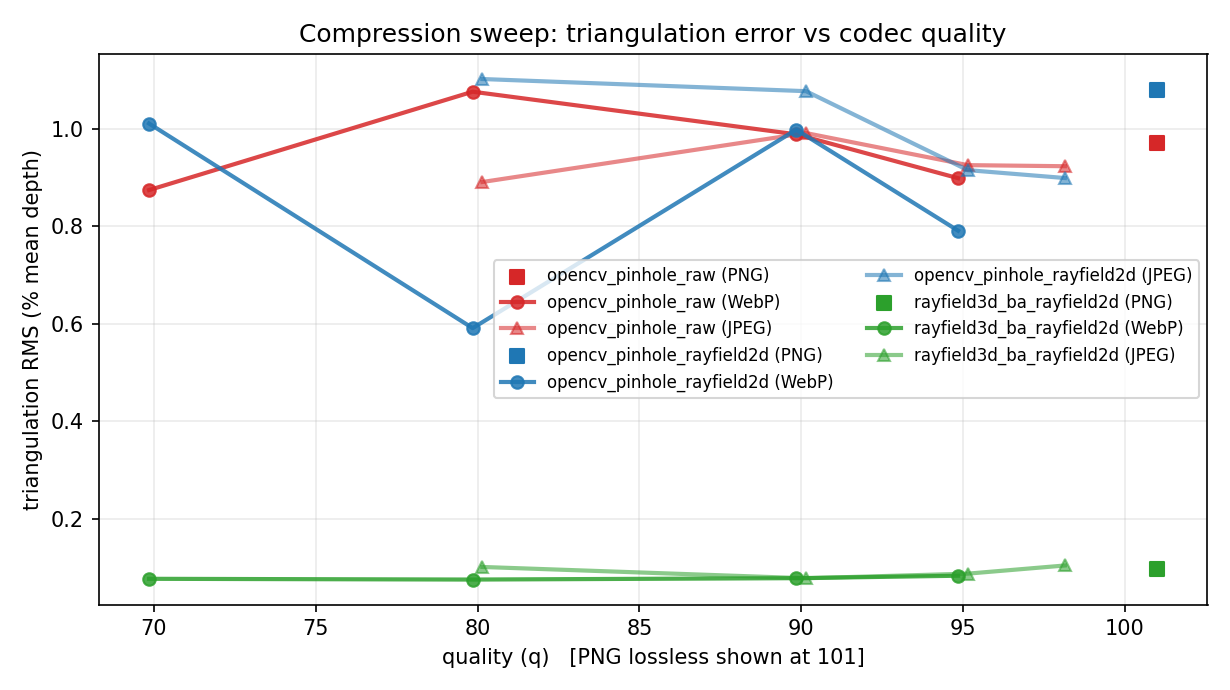
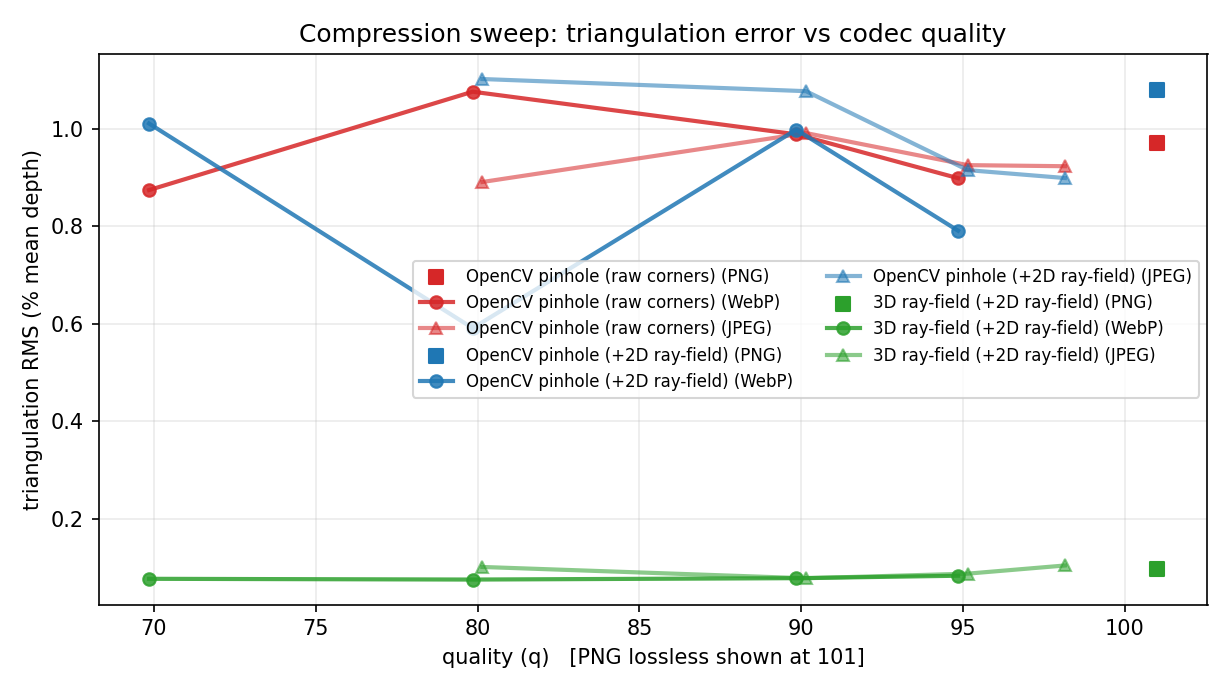
Docs: replace BA with bundle adjustment

Changed region(s): [[0.3398, 0.3652, 0.9577, 0.5783]]

diff --git a/paper/experiments/sweep_compression_3d_methods.py b/paper/experiments/sweep_compression_3d_methods.py
@@ -338,7 +338,16 @@ def main(argv: list[str] | None = None) -> int:
     x = [x_with_offset(n) for n in labels]
 
     methods = ["opencv_pinhole_raw", "opencv_pinhole_rayfield2d", "rayfield3d_ba_rayfield2d"]
-    colors = {"opencv_pinhole_raw": "tab:red", "opencv_pinhole_rayfield2d": "tab:blue", "rayfield3d_ba_rayfield2d": "tab:green"}
+    colors = {
+        "opencv_pinhole_raw": "tab:red",
+        "opencv_pinhole_rayfield2d": "tab:blue",
+        "rayfield3d_ba_rayfield2d": "tab:green",
+    }
+    labels_method = {
+        "opencv_pinhole_raw": "OpenCV pinhole (raw corners)",
+        "opencv_pinhole_rayfield2d": "OpenCV pinhole (+2D ray-field)",
+        "rayfield3d_ba_rayfield2d": "3D ray-field (+2D ray-field)",
+    }
 
     def series(metric: str, method: str) -> list[float]:
         out: list[float] = []
@@ -351,23 +360,24 @@ def main(argv: list[str] | None = None) -> int:
         plt.figure(figsize=(8.2, 4.6), dpi=150)
         # Plot each method as 2 codec lines (webp/jpeg) + a PNG reference point.
         for m in methods:
+            name = labels_method.get(m, m)
             # PNG reference.
             y_png = series(metric, m)[0]
-            plt.scatter([x[0]], [y_png], marker="s", s=42, color=colors[m], label=f"{m} (PNG)")
+            plt.scatter([x[0]], [y_png], marker="s", s=42, color=colors[m], label=f"{name} (PNG)")
 
             # WebP line (if present).
             if labels_webp:
                 xw = [x_with_offset(n) for n in labels_webp]
                 yw = [cases[n]["methods"][m].get(metric) for n in labels_webp]
                 yw = [float("nan") if v is None else float(v) for v in yw]
-                plt.plot(xw, yw, marker="o", linewidth=2.0, color=colors[m], alpha=0.85, label=f"{m} (WebP)")
+                plt.plot(xw, yw, marker="o", linewidth=2.0, color=colors[m], alpha=0.85, label=f"{name} (WebP)")
 
             # JPEG line (if present).
             if labels_jpeg:
                 xj = [x_with_offset(n) for n in labels_jpeg]
                 yj = [cases[n]["methods"][m].get(metric) for n in labels_jpeg]
                 yj = [float("nan") if v is None else float(v) for v in yj]
-                plt.plot(xj, yj, marker="^", linewidth=2.0, color=colors[m], alpha=0.55, label=f"{m} (JPEG)")
+                plt.plot(xj, yj, marker="^", linewidth=2.0, color=colors[m], alpha=0.55, label=f"{name} (JPEG)")
 
         plt.grid(True, alpha=0.25)
         plt.xlabel("quality (q)   [PNG lossless shown at 101]")

diff --git a/paper/experiments/sweep_robustness_board_focal_aberrations.py b/paper/experiments/sweep_robustness_board_focal_aberrations.py
@@ -159,11 +159,16 @@ def main(argv: list[str] | None = None) -> int:
     ap.add_argument(
         "--run-rayfield3d",
         action="store_true",
-        help="Also run ray-field 3D BA + post-hoc pinhole identification per case.",
+        help="Also run ray-field 3D bundle adjustment + post-hoc pinhole identification per case.",
     )
     ap.add_argument("--rayfield3d-outer-iters", type=int, default=6)
     ap.add_argument("--rayfield3d-nmax", type=int, default=12)
-    ap.add_argument("--rayfield3d-max-points", type=int, default=200, help="Max ChArUco corners per frame for ray-field 3D BA.")
+    ap.add_argument(
+        "--rayfield3d-max-points",
+        type=int,
+        default=200,
+        help="Max ChArUco corners per frame for ray-field 3D bundle adjustment.",
+    )
     args = ap.parse_args(argv)
 
     seeds = [int(s.strip()) for s in str(args.seeds).split(",") if s.strip()]

diff --git a/paper/experiments/calibrate_central_rayfield3d_from_images.py b/paper/experiments/calibrate_central_rayfield3d_from_images.py
@@ -663,7 +663,7 @@ def _init_coeffs_from_pose_guess(
 
 def main() -> int:
     ap = argparse.ArgumentParser(
-        description="Calibrate a central ray-field (Zernike) from images (multi-poses) using point-to-ray BA."
+        description="Calibrate a central ray-field (Zernike) from images (multi-poses) using point-to-ray bundle adjustment."
     )
     ap.add_argument("dataset_root", type=Path)
     ap.add_argument("--split", default="train")
@@ -883,7 +883,7 @@ def main() -> int:
         image_size=image_size,
     )
 
-    # Joint stereo BA (shared rig, board poses in left camera coordinates).
+    # Joint stereo bundle adjustment (shared rig, board poses in left camera coordinates).
     stereo_frames = {
         fid: StereoFrameObservations(
             uv_left_px=obs_L[fid].uv_px,

diff --git a/docs/RAYFIELD3D_RECONSTRUCTION.md b/docs/RAYFIELD3D_RECONSTRUCTION.md
@@ -216,7 +216,7 @@ This comparison runs three pipelines:
 
 1. OpenCV pinhole calibration from **raw** ChArUco corners,
 2. OpenCV pinhole calibration from **2D ray-field refined** corners,
-3. central **3D ray-field (BA)** calibrated from **2D ray-field refined** corners.
+3. central **3D ray-field (bundle adjustment)** calibrated from **2D ray-field refined** corners.
 
 Command (prints a markdown summary and writes a JSON report):
 
@@ -249,7 +249,7 @@ Miraldo et al. propose a compact, continuous version of the general imaging mode
 radial basis functions (RBF), and derive a linear calibration procedure from point↔line incidence constraints
 (`Point-based Calibration using a Parametric Representation of the General Imaging Model`, ICCV 2011, DOI: `10.1109/ICCV.2011.6126511`).
 
-Our current BA formulation is a *central* specialization: lines pass through a constant origin $C$, so a pixel maps to a
+Our current bundle-adjustment formulation is a *central* specialization: lines pass through a constant origin $C$, so a pixel maps to a
 unit direction $\hat{\mathbf d}(u,v)$ only. Extending the current code to non-central optics can follow the same structure
 (compact interpolation + global regularization), but with a per-pixel line representation (e.g., Plücker) instead of a single origin.
 
@@ -280,7 +280,7 @@ In the stereo version, we optimize **simultaneously**:
 
 We solve with `scipy.optimize.least_squares` (robust Gauss-Newton/LM) using Huber loss and $L^2$ coefficient regularization.
 
-### Script (images → 2D ray-field → 3D ray-field BA → stereo)
+### Script (images → 2D ray-field → 3D ray-field bundle adjustment → stereo)
 
 ```bash
 .venv/bin/python paper/experiments/calibrate_central_rayfield3d_from_images.py \
@@ -302,19 +302,19 @@ Output: JSON (default: `paper/tables/rayfield3d_ba_from_images.json`) with:
 
 ### Results (example)
 
-On `scene_0000` (5 frames), the “pinhole oracle” remains a lower bound (pinhole + GT Brown). The central 3D ray-field BA (Zernike, central model) is calibrated **without solvePnP** and **without a known** $K$: initial board poses are obtained from homographies (Zhang-style) only as an *initialization*, and the solver then directly optimizes the point↔ray cost (robust Gauss-Newton via SciPy).
+On `scene_0000` (5 frames), the “pinhole oracle” remains a lower bound (pinhole + GT Brown). The central 3D ray-field (Zernike, central model) is calibrated **without solvePnP** and **without a known** $K$: initial board poses are obtained from homographies (Zhang-style) only as an *initialization*, and the solver then directly optimizes the point↔ray cost (robust Gauss-Newton via SciPy).
 
 ```{table} Central ray-based calibration from images: comparison to the pinhole oracle (example).
-:name: tab-rayfield3d-ba-example
+:name: tab-rayfield3d-bundle-adjustment-example
 
 | 3D method (same 2D points) | Baseline abs. err. (mm) | Baseline abs. err. (px) | 3D RMS (mm) | Reproj RMS L/R (px) |
 |---|---:|---:|---:|---:|
 | Pinhole oracle (GT params) | $0$ | $0$ | $\approx 1.28$ | $\approx 0.20 / 0.15$ |
 | OpenCV pinhole calibrated (images, non-GT) | $\approx 0.32$ | $\approx 0.29$ | $\approx 14.48$ | $\approx 3.02 / 2.77$ |
-| 3D ray-field BA (central, Zernike) | $\approx 0.21$ | $\approx 0.19$ | $\approx 1.55$ | $\approx 1.36 / 1.33$ |
+| 3D ray-field (bundle adjustment, central Zernike) | $\approx 0.21$ | $\approx 0.19$ | $\approx 1.55$ | $\approx 1.36 / 1.33$ |
 ```
 
-Note: for the “3D ray-field BA” row, the 3D RMS and reprojections are computed **after** a fixed-origin similarity alignment (rotation + scale, no translation) between the reconstruction and the GT reference. Without this step, errors “in the GT frame” become arbitrarily large because the point↔ray cost does not, by itself, fix the global frame choice (gauge).
+Note: for the “3D ray-field” row, the 3D RMS and reprojections are computed **after** a fixed-origin similarity alignment (rotation + scale, no translation) between the reconstruction and the GT reference. Without this step, errors “in the GT frame” become arbitrarily large because the point↔ray cost does not, by itself, fix the global frame choice (gauge).
 
 ### Discussion: (i) baseline, (ii) reprojection, (iii) triangulation
 
@@ -333,7 +333,7 @@ Practical takeaway:
 - in robotics (rectification, dense stereo), baseline accuracy and epipolar coherence often dominate matching success;
 - in metrology (stereo-DIC), ray-based calibration can stabilize stereo geometry when a global pinhole becomes only an approximation.
 
-### Discussion: why “3D ray-field BA” needs an “aligned” comparison
+### Discussion: why the ray-field calibration needs an “aligned” comparison
 
 The point↔ray cost
 
@@ -470,5 +470,5 @@ This is on the same order of magnitude as a pinhole model (focal length, princip
 
 ### Code references
 
-- Central stereo point↔ray BA: `src/stereocomplex/ray3d/central_stereo_ba.py`
-- Experimental driver (images → BA): `paper/experiments/calibrate_central_rayfield3d_from_images.py`
+- Central stereo point↔ray bundle adjustment: `src/stereocomplex/ray3d/central_stereo_ba.py`
+- Experimental driver (images → bundle adjustment): `paper/experiments/calibrate_central_rayfield3d_from_images.py`

diff --git a/docs/COMPRESSION_RECONSTRUCTION.md b/docs/COMPRESSION_RECONSTRUCTION.md
@@ -3,7 +3,7 @@
 This page studies how image compression impacts:
 
 1. **ChArUco-based OpenCV stereo calibration**, and
-2. the **ray-based 3D reconstruction** pipeline (*central 3D ray-field + point↔ray BA*).
+2. the **ray-based 3D reconstruction** pipeline (*central 3D ray-field + point↔ray bundle adjustment*).
 
 The main goal is practical: determine whether a ray-based reconstruction remains usable when images are **strongly compressed** (for storage, telemetry, or embedded/robotics pipelines).
 
@@ -15,7 +15,7 @@ We compare three pipelines:
 
 1. **OpenCV pinhole (raw)**: calibrate from raw OpenCV ChArUco detections.
 2. **OpenCV pinhole (+ 2D ray-field)**: refine corners with `rayfield_tps_robust`, then calibrate with OpenCV.
-3. **3D ray-field BA (+ 2D ray-field)**: refine corners with `rayfield_tps_robust`, then calibrate a central 3D ray-field via point↔ray bundle adjustment and triangulate.
+3. **3D ray-field (+ 2D ray-field)**: refine corners with `rayfield_tps_robust`, then calibrate a central 3D ray-field via point↔ray bundle adjustment (nonlinear least squares) and triangulate.
 
 ### Metrics
 
@@ -67,7 +67,7 @@ The plotting script automatically includes **all computed codec qualities** foun
 
 ## Key finding: 3D ray-field is remarkably stable under compression
 
-On this sweep, the **central 3D ray-field + BA** pipeline is both:
+On this sweep, the **central 3D ray-field + bundle adjustment** pipeline is both:
 
 - **stable** across strong lossy compression, and
 - **consistently better in 3D** than OpenCV pinhole, even when pinhole uses 2D ray-field refined corners.

diff --git a/docs/START_HERE.md b/docs/START_HERE.md
@@ -26,7 +26,7 @@ StereoComplex is built around:
 - ChArUco detection evaluation against GT,
 - a 2D “ray-field” correction (`rayfield_tps_robust`) to improve corner localization,
 - a stereo calibration / triangulation evaluation pipeline (OpenCV),
-- an experimental central 3D ray-field (Zernike) and point↔ray bundle adjustment.
+- an experimental central 3D ray-field (Zernike) calibrated by point↔ray bundle adjustment.
 
 ## What is already implemented
 
@@ -37,7 +37,7 @@ StereoComplex is built around:
 - Worked example (end-to-end 2D ray-field): `docs/RAYFIELD_WORKED_EXAMPLE.md`
 - Stereo calibration + reconstruction study: `docs/STEREO_RECONSTRUCTION.md`
 - Robustness sweep: `docs/ROBUSTNESS_SWEEP.md`
-- Central 3D ray-field + BA: `docs/RAYFIELD3D_RECONSTRUCTION.md`
+- Central 3D ray-field + point↔ray bundle adjustment: `docs/RAYFIELD3D_RECONSTRUCTION.md`
 
 ## Quickstart
 

diff --git a/docs/ROBUSTNESS_SWEEP.md b/docs/ROBUSTNESS_SWEEP.md
@@ -119,7 +119,7 @@ Results are stored in:
 - `paper/tables/robustness_sweep/*.json` (per-case reports),
 - `paper/tables/robustness_sweep/summary.json` (aggregated).
 
-Optional (slow): also run the ray-field 3D BA + post-hoc pinhole identification for each case:
+Optional (slow): also run the ray-field 3D bundle adjustment + post-hoc pinhole identification for each case:
 
 ```bash
 .venv/bin/python paper/experiments/sweep_robustness_board_focal_aberrations.py --seeds 0,1 --frames 16 --run-rayfield3d

diff --git a/README.md b/README.md
@@ -109,7 +109,7 @@ Export refined ChArUco corners (JSON + an OpenCV-ready NPZ):
 
 ## Quickstart (3D reconstruction without a pinhole model)
 
-Calibrate a central ray-field stereo model (point↔ray BA) and export it:
+Calibrate a central ray-field stereo model (point↔ray bundle adjustment) and export it:
 
 ```bash
 .venv/bin/python paper/experiments/calibrate_central_rayfield3d_from_images.py dataset/v0_png \
